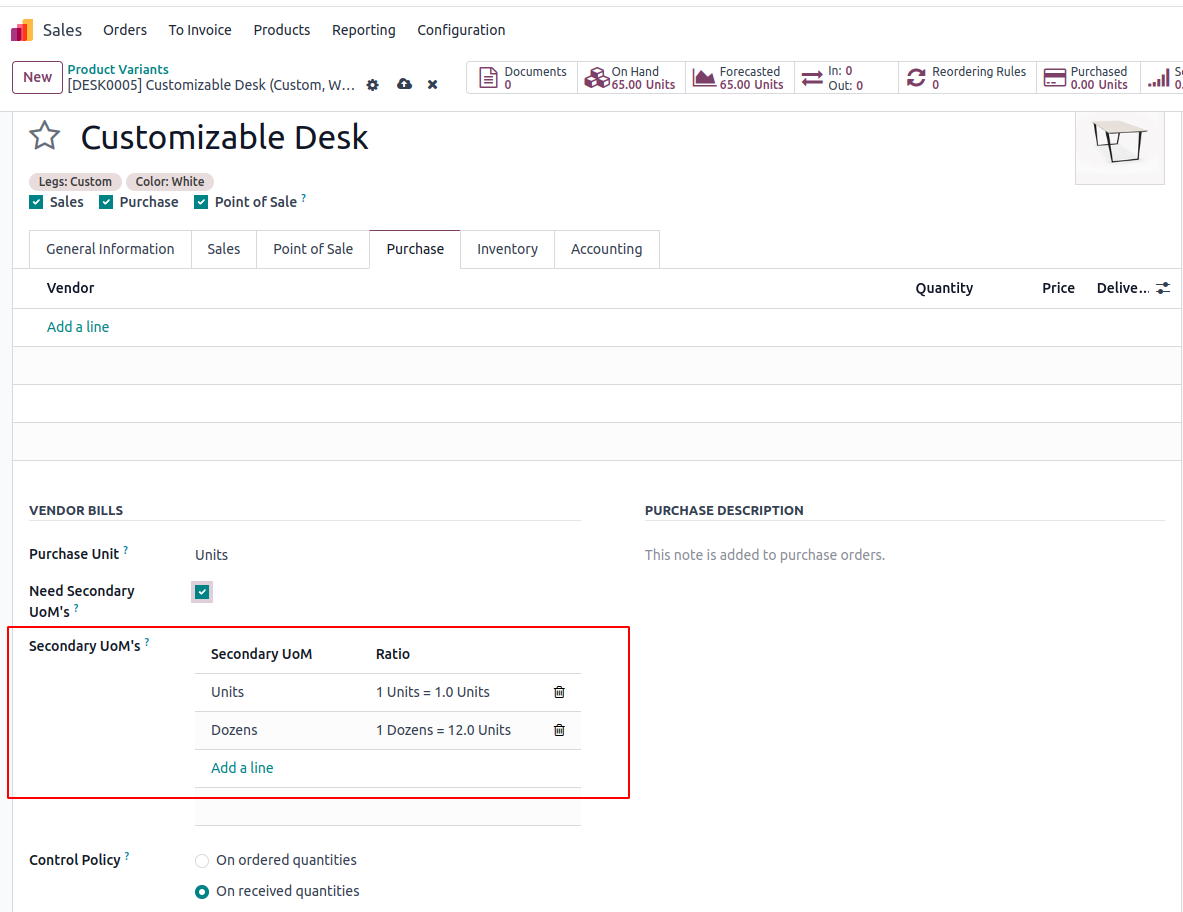
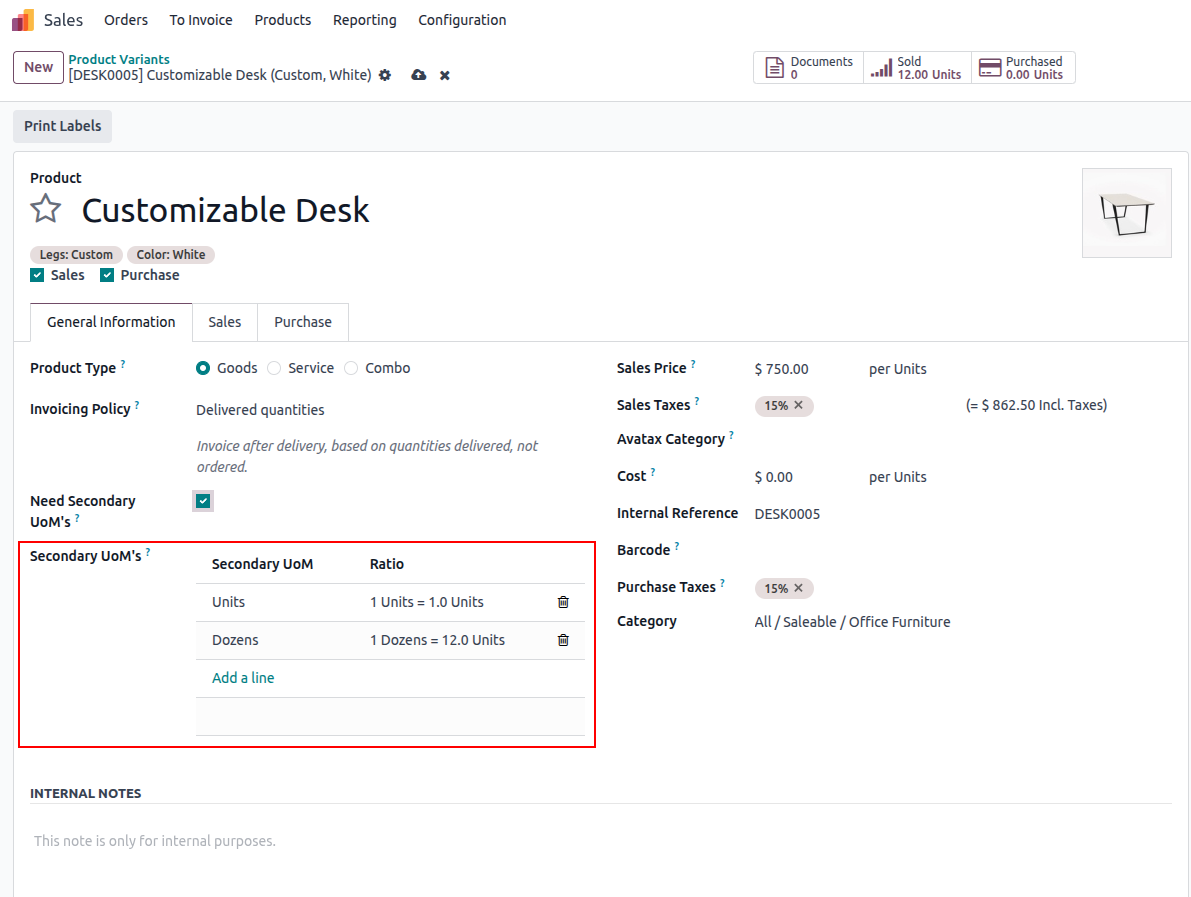
Jun 13: [FIX] Bug fixed 'product_multi_uom'

diff --git a/product_multi_uom/__manifest__.py b/product_multi_uom/__manifest__.py
@@ -21,7 +21,7 @@
 #############################################################################
 {
     'name': "Product Multi UoM",
-    'version': '18.0.1.0.0',
+    'version': '18.0.1.0.1',
     'category': 'Sales',
     'summary': 'This module help to sell a product with multiple Uom category',
     'description': "This versatile module empowers your sales strategy by "

diff --git a/product_multi_uom/models/secondary_uom_line.py b/product_multi_uom/models/secondary_uom_line.py
@@ -54,7 +54,7 @@ class SecondaryUomLine(models.Model):
                                   f" {self.secondary_uom_ratio} "
                                   f"{self.product_id.uom_id.name}")
         if self._context.get('params'):
-            sec_uom_ids = self.env['product.template'].browse(
+            sec_uom_ids = self.env['product.product'].browse(
                 self._context.get('params').get('id')).secondary_uom_ids.mapped(
                 'secondary_uom_id.id')
             if self.secondary_uom_id.id in sec_uom_ids:

diff --git a/product_multi_uom/doc/RELEASE_NOTES.md b/product_multi_uom/doc/RELEASE_NOTES.md
@@ -4,3 +4,9 @@
 #### Version 18.0.1.0.0
 ##### ADD
 - Initial Commit for Product Multi UoM
+
+#### 12.06.2025
+#### Version 18.0.1.0.1
+##### Update
+- Updated the field position in the product_product model and the _onchange_secondary_uom_id function in the
+secondary_uom_line model. Also updated the index images.